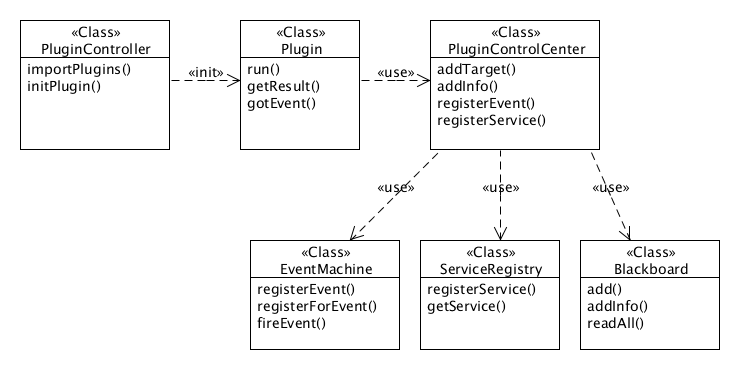
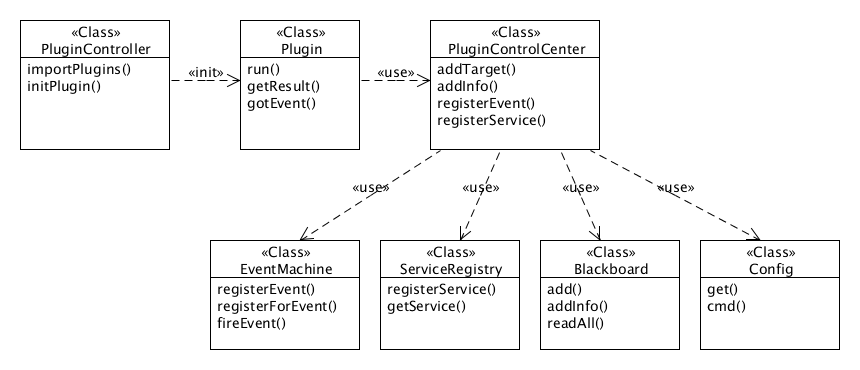
system configuration

diff --git a/src/airxploit/scanner/wlan.py b/src/airxploit/scanner/wlan.py
@@ -64,7 +64,9 @@ class WlanScanner(object):
                                  }
 
     def __init__(self, pcc):
-        self.iface = "wlan0"
+        if pcc.getCfg("wlan_device") == None:
+            raise airxploit.fuckup.plugin_init.PluginInit("wlan_device config undefined")
+        
         self.__targets = {}
         self.__pcc = pcc
         self.__pcc.registerEvent(WlanScanner.EVENT)
@@ -78,7 +80,7 @@ class WlanScanner(object):
         logging.debug("Scanning for wlan devices")
         
         try:
-            wifi = Wireless(self.iface)
+            wifi = Wireless( self.__pcc.getCfg("wlan_device") )
             results = wifi.scan()
         except IOError, e:
             if e.id != errno.EPERM:

diff --git a/src/airxploit/core/config.py b/src/airxploit/core/config.py
@@ -1,0 +1,31 @@
+'''
+Created on 05.09.2010
+
+@author: basti
+'''
+
+from pyxml2obj import XMLin
+import logging
+
+class Config(object):
+    '''
+    Parse airxploit xml config
+    '''
+    
+    def __init__(self):
+        logging.debug("Parse config conf/airxploit.conf")
+        self.__cfg = XMLin( open("conf/airxploit.conf","r").read() )
+
+    '''
+    get a config setting
+    '''
+    def get(self, name):
+        if name in self.__cfg["config"]:
+            return str(self.__cfg["config"][name])
+    
+    '''
+    get a tool command
+    '''
+    def cmd(self, name):
+        if name in self.__cfg["tools"]:
+            return str(self.__cfg["tools"][name])

diff --git a/src/airxploit/core/plugincontroller.py b/src/airxploit/core/plugincontroller.py
@@ -8,11 +8,11 @@ import os
 import logging
 import re
 
-import airxploit.fuckup
 from airxploit.scanner.bluetooth import BluetoothScanner
 from airxploit.scanner.wlan import WlanScanner
-from airxploit.discovery.sdp import SdpDiscovery
 from airxploit.discovery.rfcomm import RfcommDiscovery
+from airxploit.discovery.sdp import SdpDiscovery
+import airxploit.fuckup
 
 class PluginController(object):
     '''

diff --git a/src/airxploit/core/aircontroller.py b/src/airxploit/core/aircontroller.py
@@ -73,8 +73,6 @@ class AirController(object):
             raise airxploit.fuckup.big_shit.BigShit("No scanner loaded");
         
         for plugin in scanner:
-            if plugin == "wlan":
-                scanner[plugin].iface = "wlan0"            
             scanner[plugin].run()
     
     '''

diff --git a/src/airxploit/core/__init__.py b/src/airxploit/core/__init__.py
@@ -4,3 +4,4 @@ import eventmachine
 import aircontroller
 import plugincontroller
 import serviceregistry
+import config
